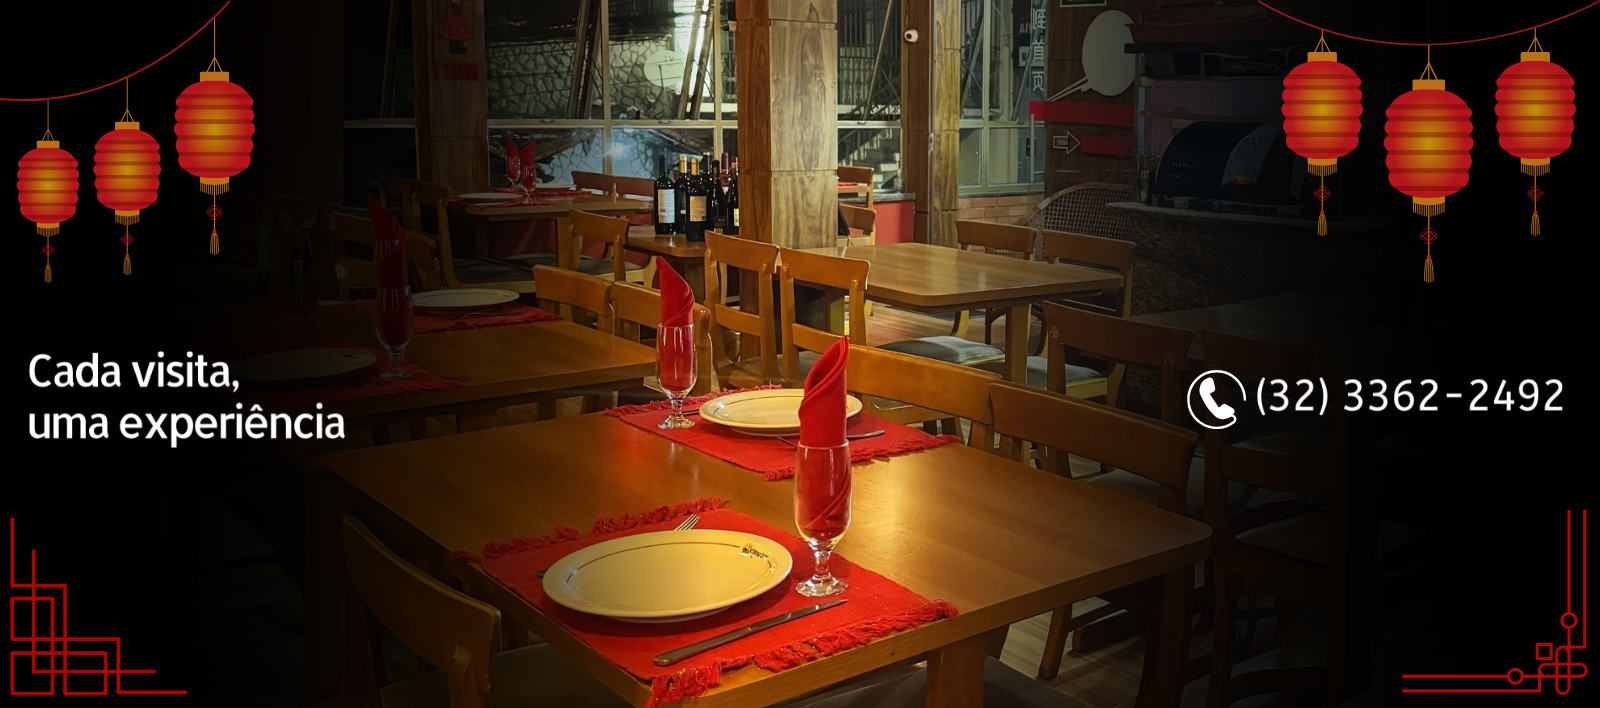
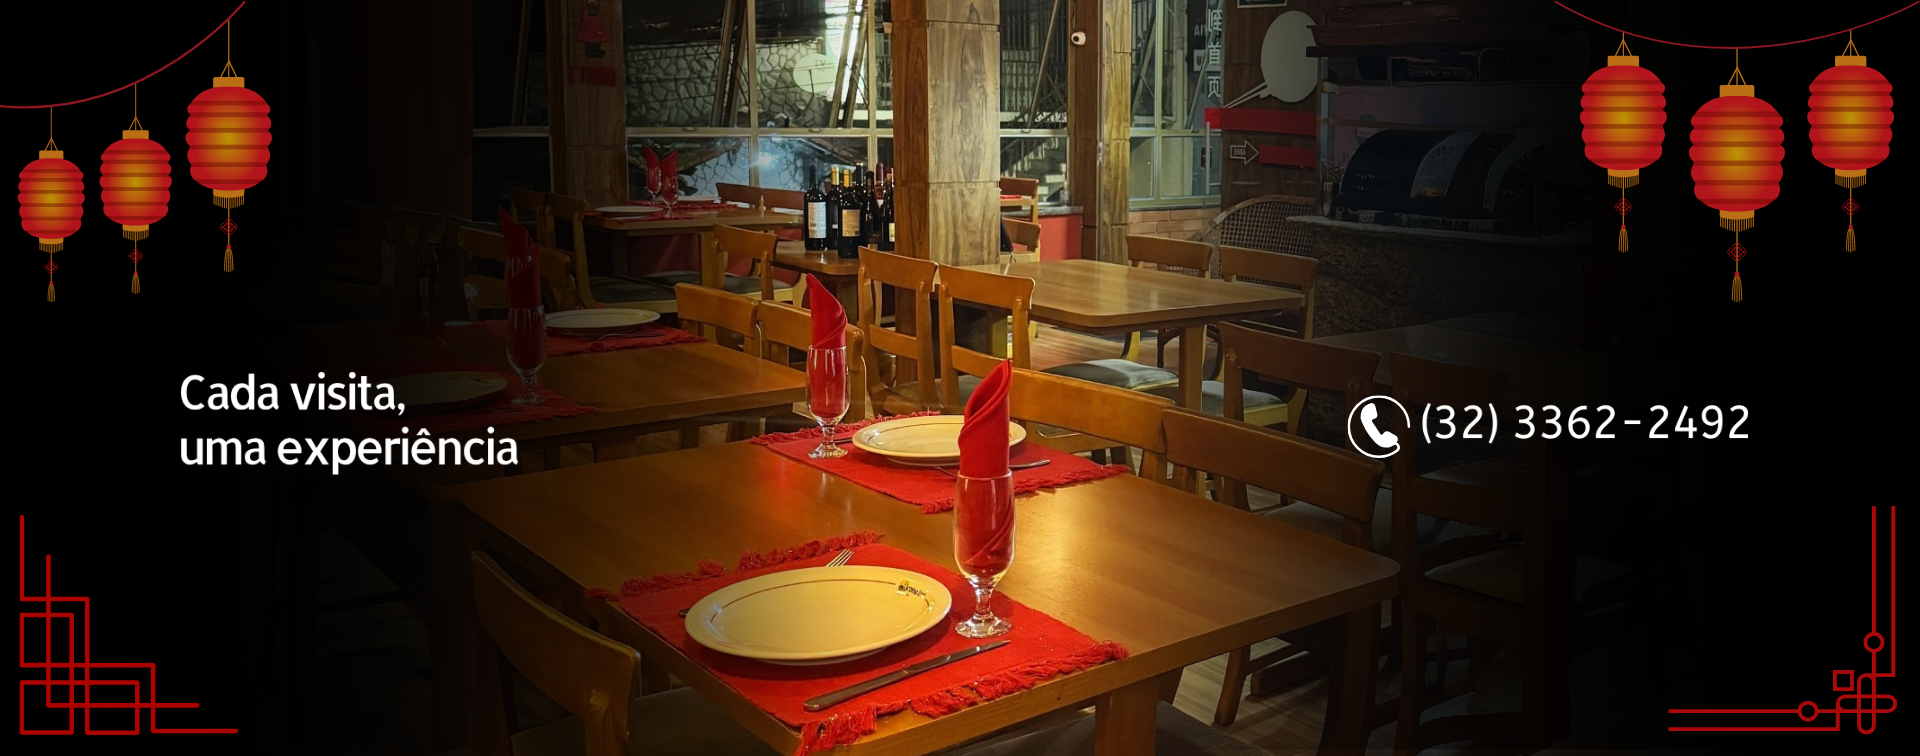
update hero v01

diff --git a/src/components/Hero.tsx b/src/components/Hero.tsx
@@ -5,21 +5,23 @@ import Image from 'next/image'
 import { ChevronLeft, ChevronRight } from 'lucide-react'
 
 export default function Hero() {
+  // Cache-buster to force browser/Next.js to fetch replaced images with same filenames
+  const CACHE_BUSTER = typeof window !== 'undefined' ? String(Date.now()) : 'ssr'
   const [currentSlide, setCurrentSlide] = useState(0)
   const [isAutoPlaying, setIsAutoPlaying] = useState(true)
 
   // Imagens da pasta hero (assets)
   const heroImages = [
     {
-      src: '/hero01.png',
+      src: `/hero01.png?v=${CACHE_BUSTER}`,
       alt: 'Restaurante Ching Ling - Ambiente 1'
     },
     {
-      src: '/hero02.png',
+      src: `/hero02.png?v=${CACHE_BUSTER}`,
       alt: 'Restaurante Ching Ling - Ambiente 2'
     },
     {
-      src: '/hero03.png',
+      src: `/hero03.png?v=${CACHE_BUSTER}`,
       alt: 'Restaurante Ching Ling - Ambiente 3'
     }
   ]
@@ -43,64 +45,73 @@ export default function Hero() {
   }
 
   const nextSlide = () => {
-    setCurrentSlide((prev) => (prev + 1) % heroImages.length)
+    const next = (currentSlide + 1) % heroImages.length
+    setCurrentSlide(next)
     setIsAutoPlaying(false)
     setTimeout(() => setIsAutoPlaying(true), 10000)
   }
 
   const prevSlide = () => {
-    setCurrentSlide((prev) => (prev - 1 + heroImages.length) % heroImages.length)
+    const prev = currentSlide === 0 ? heroImages.length - 1 : currentSlide - 1
+    setCurrentSlide(prev)
     setIsAutoPlaying(false)
     setTimeout(() => setIsAutoPlaying(true), 10000)
   }
 
   return (
-    <section className="relative h-[70vh] w-full overflow-hidden mt-36 bg-black -z-10">
+    <section className="relative h-[40vh] sm:h-[48vh] md:h-[60vh] lg:h-[90vh] w-full overflow-hidden mt-16 sm:mt-20 md:mt-24 lg:mt-32 bg-black z-0">
       {/* Carousel Container */}
       <div className="relative h-full w-full">
         {/* Images */}
         {heroImages.map((image, index) => (
           <div
             key={index}
-            className={`absolute inset-0 transition-opacity duration-1500 ease-in-out ${index === currentSlide ? 'opacity-100' : 'opacity-0'
+            className={`absolute inset-0 transition-opacity duration-1500 ease-in-out flex items-center justify-center ${index === currentSlide ? 'opacity-100' : 'opacity-0'
               }`}
           >
-            <Image
-              src={image.src}
-              alt={image.alt}
-              fill
-              className="object-contain"
-              priority={index === 0}
-            />
+            {/* Use object-contain and an aspect-friendly wrapper so the full image is visible without cropping */}
+            <div className="relative w-full h-full flex items-center justify-center">
+              <Image
+                src={image.src}
+                alt={image.alt}
+                fill
+                sizes="100vw"
+                className="object-fill select-none"
+                priority={index === 0}
+                style={{ transform: 'scale(1)', transition: 'none', userSelect: 'none' }}
+              />
+            </div>
             {/* Light overlay for better text contrast */}
             <div className="absolute inset-0 bg-black/10"></div>
           </div>
         ))}
 
-        {/* Navigation Arrows */}
+        {/* Navigation Arrows (larger touch targets on mobile) */}
         <button
+          type="button"
           onClick={prevSlide}
-          className="absolute left-4 md:left-8 top-1/2 -translate-y-1/2 z-10 text-white hover:text-gray-200 transition-all duration-300 hover:scale-110 drop-shadow-lg"
+          className="absolute left-1 sm:left-2 md:left-8 top-1/2 md:top-2/3 -translate-y-1/2 z-30 text-white hover:text-gray-200 transition-all duration-300 hover:scale-105 drop-shadow-lg cursor-pointer p-2 sm:p-3 md:p-0"
           aria-label="Slide anterior"
         >
-          <ChevronLeft className="w-8 h-8" />
+          <ChevronLeft className="w-6 h-6 sm:w-8 sm:h-8 md:w-12 md:h-12" />
         </button>
 
         <button
+          type="button"
           onClick={nextSlide}
-          className="absolute right-4 md:right-8 top-1/2 -translate-y-1/2 z-10 text-white hover:text-gray-200 transition-all duration-300 hover:scale-110 drop-shadow-lg"
+          className="absolute right-1 sm:right-2 md:right-8 top-1/2 md:top-2/3 -translate-y-1/2 z-30 text-white hover:text-gray-200 transition-all duration-300 hover:scale-105 drop-shadow-lg cursor-pointer p-2 sm:p-3 md:p-0"
           aria-label="Próximo slide"
         >
-          <ChevronRight className="w-8 h-8" />
+          <ChevronRight className="w-6 h-6 sm:w-8 sm:h-8 md:w-12 md:h-12" />
         </button>
 
         {/* Dots Indicator */}
-        <div className="absolute bottom-8 left-1/2 -translate-x-1/2 z-10 flex space-x-3">
+        <div className="absolute bottom-3 sm:bottom-4 left-1/2 -translate-x-1/2 z-20 flex space-x-2 sm:space-x-3">
           {heroImages.map((_, index) => (
             <button
               key={index}
               onClick={() => goToSlide(index)}
-              className={`w-3 h-3 rounded-full transition-all duration-300 ${index === currentSlide
+              className={`w-4 sm:w-3.5 md:w-3 h-4 sm:h-3.5 md:h-3 rounded-full transition-all duration-300 ${index === currentSlide
                 ? 'bg-white scale-125'
                 : 'bg-white/50 hover:bg-white/80'
                 }`}

diff --git a/src/components/ImageCarousel.tsx b/src/components/ImageCarousel.tsx
@@ -26,41 +26,45 @@ export default function ImageCarousel() {
     }, [images.length])
 
     return (
-        <section className="py-20 bg-gray-100">
-            <div className="container mx-auto px-4">
-                <div className="text-center mb-12">
-                    <h2 className="text-4xl md:text-5xl font-bold text-gray-800 mb-4">
+        <section className="py-12 sm:py-16 md:py-20 bg-gray-100">
+            <div className="container mx-auto px-3 sm:px-4">
+                <div className="text-center mb-8 sm:mb-10 md:mb-12">
+                    <h2 className="text-3xl sm:text-4xl md:text-5xl font-bold text-gray-800 mb-3 sm:mb-4">
                         Galeria
                     </h2>
-                    <p className="text-xl text-gray-600 max-w-2xl mx-auto">
+                    <p className="text-lg sm:text-xl text-gray-600 max-w-2xl mx-auto px-2">
                         Uma amostra dos nossos pratos e do ambiente acolhedor do Ching Ling
                     </p>
                 </div>
 
                 <div className="relative max-w-6xl mx-auto">
-                    <div className="grid grid-cols-1 md:grid-cols-3 gap-6">
+                    <div className="grid grid-cols-1 md:grid-cols-3 gap-4 sm:gap-6">
                         {images.slice(currentIndex, currentIndex + 3).concat(
                             images.slice(0, Math.max(0, (currentIndex + 3) - images.length))
                         ).map((image, index) => (
-                            <div key={`${currentIndex}-${index}`} className="relative h-80 w-full rounded-lg overflow-hidden shadow-lg">
-                                <Image
-                                    src={image}
-                                    alt={`Prato ou ambiente ${index + 1}`}
-                                    fill
-                                    className="object-cover hover:scale-105 transition-transform duration-300"
-                                />
+                            <div key={`${currentIndex}-${index}`} className="relative w-full rounded-lg overflow-hidden shadow-lg">
+                                {/* Responsive heights: smaller on mobile, wider aspect on desktop */}
+                                <div className="relative w-full h-36 sm:h-44 md:h-56 lg:h-64 lg:aspect-[16/9] lg:h-auto">
+                                    <Image
+                                        src={image}
+                                        alt={`Prato ou ambiente ${index + 1}`}
+                                        fill
+                                        sizes="(max-width: 640px) 100vw, (max-width: 1024px) 50vw, 33vw"
+                                        className="object-fill transition-transform duration-300"
+                                    />
+                                </div>
                             </div>
                         ))}
                     </div>
 
                     {/* Navigation dots */}
-                    <div className="flex justify-center mt-8 space-x-2">
+                    <div className="flex justify-center mt-4 sm:mt-6 space-x-2 sm:space-x-3">
                         {images.map((_, index) => (
                             <button
                                 key={index}
                                 onClick={() => setCurrentIndex(index)}
-                                className={`w-3 h-3 rounded-full transition-colors ${index === currentIndex ? 'bg-red-600' : 'bg-gray-300'
-                                    }`}
+                                aria-label={`Ir para imagem ${index + 1}`}
+                                className={`w-4 sm:w-3.5 md:w-3 h-4 sm:h-3.5 md:h-3 rounded-full transition-colors ${index === currentIndex ? 'bg-red-600' : 'bg-gray-300'}`}
                             />
                         ))}
                     </div>

diff --git a/next.config.ts b/next.config.ts
@@ -16,6 +16,12 @@ const nextConfig: NextConfig = {
         pathname: '/**',
       }
     ],
+    // Allow local images (including query strings) to be used with next/image
+    localPatterns: [
+      {
+        pathname: '/**'
+      }
+    ]
   },
 };
 
